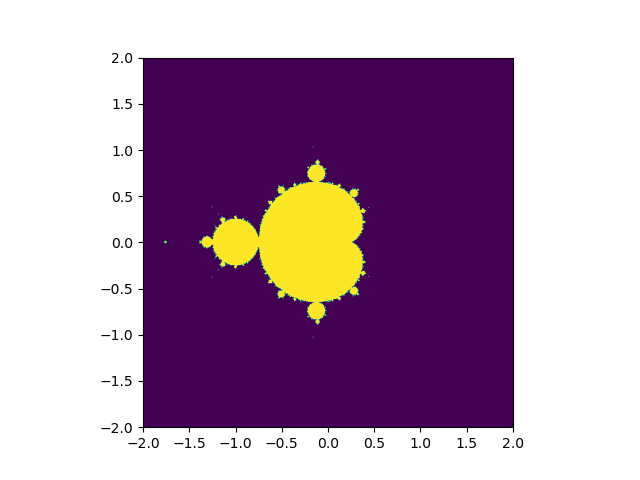
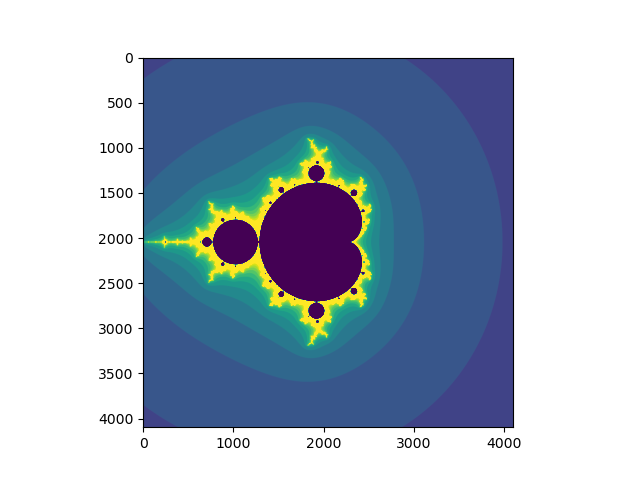
progress

diff --git a/Chapter03/gpu_mandelbrot_lionel.py b/Chapter03/gpu_mandelbrot_lionel.py
@@ -12,7 +12,7 @@ from pycuda.elementwise import ElementwiseKernel
 mandel_ker = ElementwiseKernel(
 "pycuda::complex<float> *lattice, float *mandelbrot_graph, int max_iters, float upper_bound",
 """
-mandelbrot_graph[i] = 1;
+mandelbrot_graph[i] = 0;
 
 pycuda::complex<float> c = lattice[i]; 
 pycuda::complex<float> z(0,0);
@@ -22,9 +22,9 @@ for (int j = 0; j < max_iters; j++)
     
      z = z*z + c;
      
-     if(abs(z) > upper_bound)
+     if(abs(z) > 1000)
          {
-          mandelbrot_graph[i] = 0;
+          mandelbrot_graph[i] = j;
           break;
          }
 
@@ -58,14 +58,14 @@ def gpu_mandelbrot(width, height, real_low, real_high, imag_low, imag_high, max_
 if __name__ == '__main__':
 
     t1 = time()
-    mandel = gpu_mandelbrot(512,512,-2,2,-2,2,256, 2)
+    mandel = gpu_mandelbrot(4096,4096,-2,2,-2,2,1024, 2)
     t2 = time()
 
     mandel_time = t2 - t1
 
     t1 = time()
     fig = plt.figure(1)
-    plt.imshow(mandel, extent=(-2, 2, -2, 2))
+    plt.imshow(mandel, vmin=0, vmax=15)
     plt.savefig('mandelbrot.png', dpi=fig.dpi)
     t2 = time()
 

diff --git a/Chapter03/simple_scankernel1.py b/Chapter03/simple_scankernel1.py
@@ -3,8 +3,11 @@ import pycuda.autoinit
 from pycuda import gpuarray
 from pycuda.scan import InclusiveScanKernel
 
+# find maximum value in float32 array
+
 seq = np.array([1,100,-3,-10000, 4, 10000, 66, 14, 21],dtype=np.int32)
 seq_gpu = gpuarray.to_gpu(seq)
-max_gpu = InclusiveScanKernel(np.int32, "a > b ? a : b")
-print max_gpu(seq_gpu).get()[-1]
-print np.max(seq)
+max_gpu = InclusiveScanKernel(np.int32, "a > b ? a : b") # meaning: ? is the ternary operator
+# syntax: condition ??? return if true ::: return if false
+print(max_gpu(seq_gpu).get()[-1])
+print(np.max(seq))

diff --git a/Chapter01/mandelbrot0.py b/Chapter01/mandelbrot0.py
@@ -13,7 +13,9 @@ def simple_mandelbrot(width, height, real_low, real_high, imag_low, imag_high, m
     imag_vals = np.linspace(imag_low, imag_high, height)
         
     # we will represent members as 1, non-members as 0.
+    # again: z_(n+1) = (z_n)^2 + c --> for which c is this smaller than upper bound after # iterations
     
+    # start with ones, set zero if not a member
     mandelbrot_graph = np.ones((height,width), dtype=np.float32)
     
     for x in range(width):

diff --git a/Chapter03/simple_scankernel0.py b/Chapter03/simple_scankernel0.py
@@ -5,6 +5,6 @@ from pycuda.scan import InclusiveScanKernel
 
 seq = np.array([1,2,3,4],dtype=np.int32)
 seq_gpu = gpuarray.to_gpu(seq)
-sum_gpu = InclusiveScanKernel(np.int32, "a+b")
-print sum_gpu(seq_gpu).get()
+sum_gpu = InclusiveScanKernel(np.int32, "a+b") # this works the same way as reduce() in Python, operation specified as string in C syntax
+print sum_gpu(seq_gpu).get() # this time we did not allocate space on GPU, so we get() it directly
 print np.cumsum(seq)
